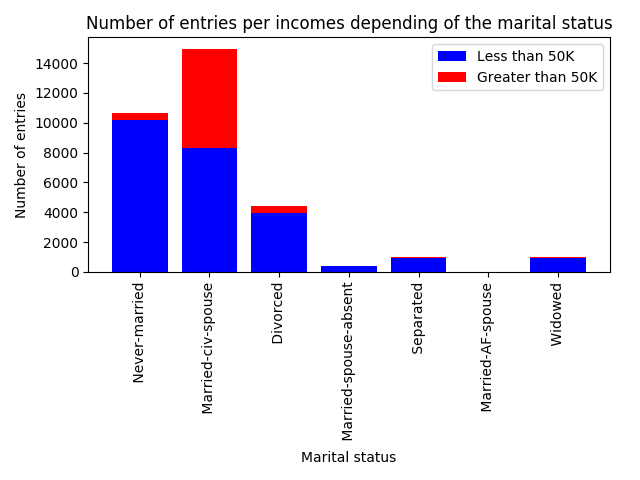
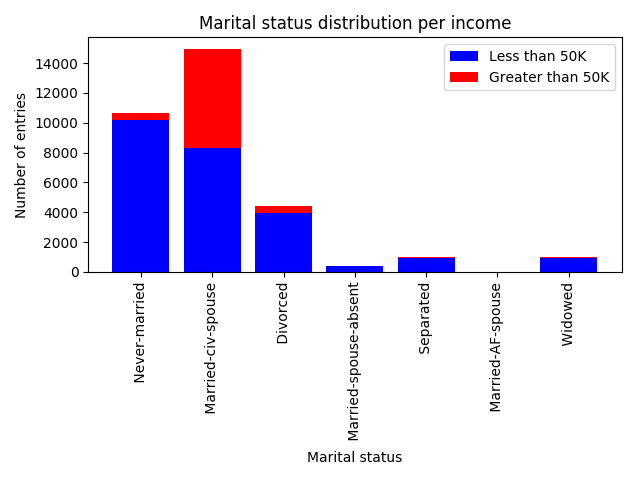
change title

diff --git a/study.py b/study.py
@@ -66,7 +66,7 @@ def main():
     plt.xticks(rotation=90)
     plt.ylabel('Number of entries')
     plt.xlabel('Education')
-    plt.title('Number of entries per incomes depending on the education')
+    plt.title('Education ditribution per income')
     plt.legend()
     plt.show()
 
@@ -85,7 +85,7 @@ def main():
     plt.xticks(rotation=90)
     plt.ylabel('Number of entries')
     plt.xlabel('Marital status')
-    plt.title('Number of entries per incomes depending of the marital status')
+    plt.title('Marital status distribution per income')
     plt.legend()
     plt.show()
 
@@ -104,7 +104,7 @@ def main():
     plt.xticks(rotation=90)
     plt.ylabel('Number of entries')
     plt.xlabel('Occupation')
-    plt.title('Number of entries per incomes depending on the occupation')
+    plt.title('Occupation distribution per income')
     plt.legend()
     plt.show()
 
@@ -122,8 +122,8 @@ def main():
              histtype='barstacked', orientation='vertical', rwidth=0.8)
     plt.xticks(rotation=90)
     plt.ylabel('Number of entries')
-    plt.xlabel('relationship')
-    plt.title('Number of entries per incomes depending on relationship')
+    plt.xlabel('Relationship')
+    plt.title('Relationship distribution per income')
     plt.legend()
     plt.show()
 
@@ -142,7 +142,7 @@ def main():
     plt.xticks(rotation=90)
     plt.ylabel('Number of entries')
     plt.xlabel('Race')
-    plt.title('Number of entries per incomes depending on the race')
+    plt.title('Race distribution per income')
     plt.legend()
     plt.show()
 
@@ -161,7 +161,7 @@ def main():
     plt.xticks(rotation=90)
     plt.ylabel('Number of entries')
     plt.xlabel('Sex')
-    plt.title('Number of entries per incomes depending on the sex')
+    plt.title('Sex distribution per income')
     plt.legend()
     plt.show()
 

diff --git a/prediction.py b/prediction.py
@@ -63,7 +63,7 @@ def main():
     svm_model.fit(normalized_features_train[:20000], normalized_targets_train[:20000])
 
     print("\n\nSVM :\nTest set score: {:.2f}%".format(
-        svm_model.score(normalized_features_test[:20000], normalized_targets_test[:20000]) * 100))
+        svm_model.score(normalized_features_test, normalized_targets_test) * 100))
 
     """
     Train and test a Stochastic Gradient Descent model to predict the targets
